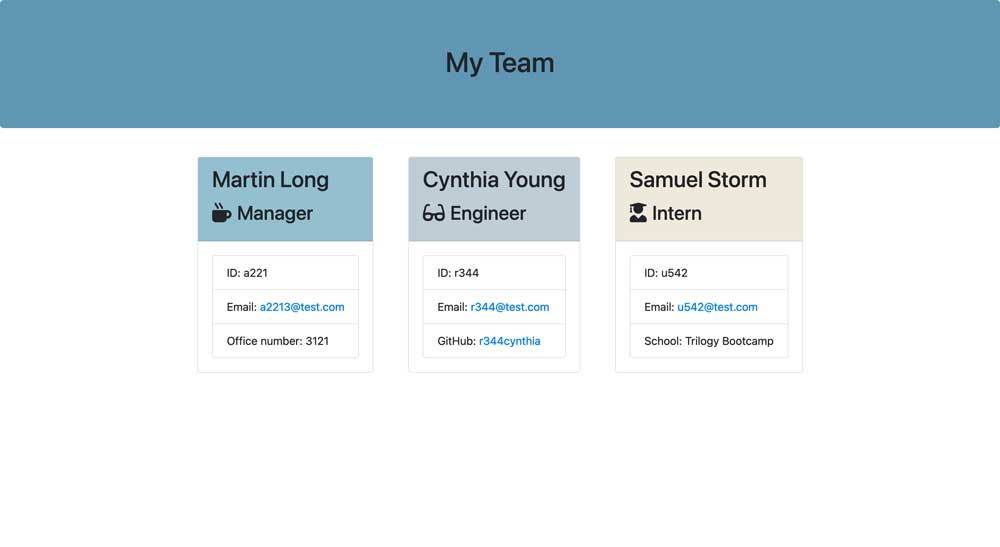
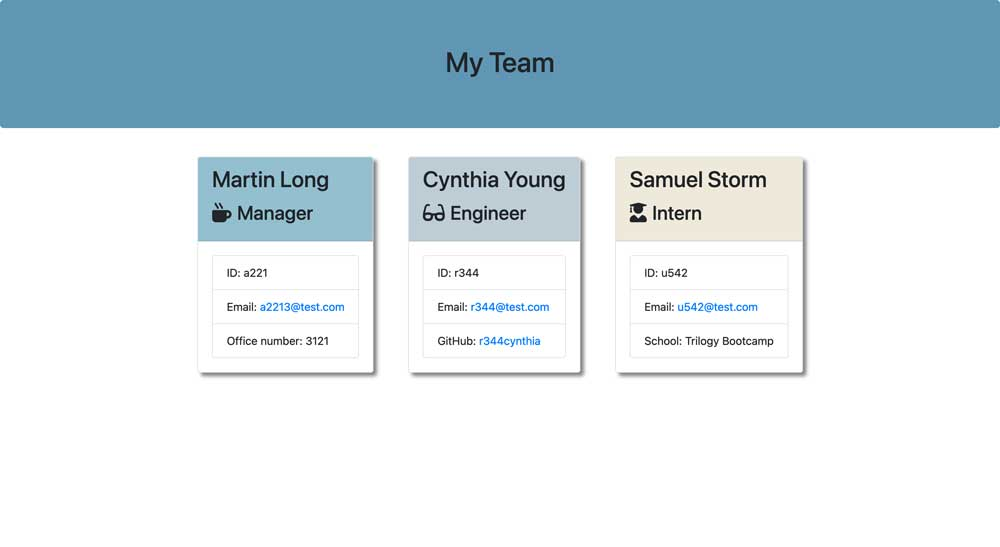
added box shadow

Changed region(s): [[0.186, 0.2797, 0.403, 0.7148], [0.403, 0.2797, 0.589, 0.7148], [0.62, 0.6527, 0.806, 0.7148]]

diff --git a/output/team.html b/output/team.html
@@ -1,103 +1,94 @@
-
-    <!DOCTYPE html>
+<!DOCTYPE html>
 <html lang="en">
-
-<head>
+  <head>
     <meta charset="UTF-8" />
     <meta name="viewport" content="width=device-width, initial-scale=1.0" />
     <meta http-equiv="X-UA-Compatible" content="ie=edge" />
     <title>My Team</title>
-    <link rel="stylesheet" href="https://stackpath.bootstrapcdn.com/bootstrap/4.3.1/css/bootstrap.min.css"
-        integrity="sha384-ggOyR0iXCbMQv3Xipma34MD+dH/1fQ784/j6cY/iJTQUOhcWr7x9JvoRxT2MZw1T" crossorigin="anonymous">
-    <link rel="stylesheet" href="style.css">
+    <link
+      rel="stylesheet"
+      href="https://stackpath.bootstrapcdn.com/bootstrap/4.3.1/css/bootstrap.min.css"
+      integrity="sha384-ggOyR0iXCbMQv3Xipma34MD+dH/1fQ784/j6cY/iJTQUOhcWr7x9JvoRxT2MZw1T"
+      crossorigin="anonymous"
+    />
+    <link rel="stylesheet" href="style.css" />
     <script src="https://kit.fontawesome.com/c502137733.js"></script>
-</head>
+  </head>
 
-<body>
+  <body>
     <div class="container-fluid">
-        <div class="row">
-            <div class="col-12 jumbotron mb-3 team-heading">
-                <h1 class="text-center">My Team</h1>
-            </div>
+      <div class="row">
+        <div class="col-12 jumbotron mb-3 team-heading">
+          <h1 class="text-center">My Team</h1>
         </div>
+      </div>
     </div>
     <div class="container">
-        <div class="row">
-            <div class="team-area col-12 d-flex justify-content-center">
-                
-        <div class="card employee-card">
-        <div class="manager card-header">
-            <h2 class="card-title">Martin Long</h2>
-            <h3 class="card-title"><i class="fas fa-mug-hot mr-2"></i>Manager</h3>
-        </div>
-        <div class="card-body">
-            <ul class="list-group">
-                <li class="list-group-item">ID: a221</li>
-                <li class="list-group-item">Email: <a href="mailto:a2213@test.com">a2213@test.com</a></li>
-                <li class="list-group-item">Office number: 3121</li>
-            </ul>
-        </div>
-    </div>
-        
-        <div class="card  employee-card">
-    <div class="engineer card-header">
-        <h2 class="card-title">Cynthia Young</h2>
-        <h3 class="card-title"><i class="fas fa-glasses mr-2"></i>Engineer</h3>
-    </div>
-    <div class="card-body">
-        <ul class="list-group">
-            <li class="list-group-item">ID: r344</li>
-            <li class="list-group-item">Email: <a href="mailto:r344@test.com">r344@test.com</a></li>
-            <li class="list-group-item">GitHub: <a href="https://github.com/r344cynthia" target="_blank" rel="noopener noreferrer">r344cynthia</a></li>
-        </ul>
-    </div>
-</div>
-        
-        <div class="card  employee-card">
-    <div class="engineer card-header">
-        <h2 class="card-title">Marley James</h2>
-        <h3 class="card-title"><i class="fas fa-glasses mr-2"></i>Engineer</h3>
-    </div>
-    <div class="card-body">
-        <ul class="list-group">
-            <li class="list-group-item">ID: a673</li>
-            <li class="list-group-item">Email: <a href="mailto:a673@test.com">a673@test.com</a></li>
-            <li class="list-group-item">GitHub: <a href="https://github.com/marleyj" target="_blank" rel="noopener noreferrer">marleyj</a></li>
-        </ul>
-    </div>
-</div>
-        
-        <div class="card employee-card">
-    <div class="intern card-header">
-        <h2 class="card-title">Samuel Storm</h2>
-        <h3 class="card-title"><i class="fas fa-user-graduate mr-2"></i>Intern</h3>
-    </div>
-    <div class="card-body">
-        <ul class="list-group">
-            <li class="list-group-item">ID: u542</li>
-            <li class="list-group-item">Email: <a href="mailto:u542@test.com">u542@test.com</a></li>
-            <li class="list-group-item">School: Trilogy Bootcamp</li>
-        </ul>
-    </div>
-</div>
-        
-        <div class="card employee-card">
-    <div class="intern card-header">
-        <h2 class="card-title">Jeremy Batch</h2>
-        <h3 class="card-title"><i class="fas fa-user-graduate mr-2"></i>Intern</h3>
-    </div>
-    <div class="card-body">
-        <ul class="list-group">
-            <li class="list-group-item">ID: u399</li>
-            <li class="list-group-item">Email: <a href="mailto:u399@test.com">u399@test.com</a></li>
-            <li class="list-group-item">School: Graduate School</li>
-        </ul>
-    </div>
-</div>
-        
+      <div class="row">
+        <div class="team-area col-12 d-flex justify-content-center">
+          <div class="card employee-card">
+            <div class="manager card-header">
+              <h2 class="card-title">Martin Long</h2>
+              <h3 class="card-title">
+                <i class="fas fa-mug-hot mr-2"></i>Manager
+              </h3>
             </div>
+            <div class="card-body">
+              <ul class="list-group">
+                <li class="list-group-item">ID: a221</li>
+                <li class="list-group-item">
+                  Email: <a href="mailto:a2213@test.com">a2213@test.com</a>
+                </li>
+                <li class="list-group-item">Office number: 3121</li>
+              </ul>
+            </div>
+          </div>
+
+          <div class="card employee-card">
+            <div class="engineer card-header">
+              <h2 class="card-title">Cynthia Young</h2>
+              <h3 class="card-title">
+                <i class="fas fa-glasses mr-2"></i>Engineer
+              </h3>
+            </div>
+            <div class="card-body">
+              <ul class="list-group">
+                <li class="list-group-item">ID: r344</li>
+                <li class="list-group-item">
+                  Email: <a href="mailto:r344@test.com">r344@test.com</a>
+                </li>
+                <li class="list-group-item">
+                  GitHub:
+                  <a
+                    href="https://github.com/r344cynthia"
+                    target="_blank"
+                    rel="noopener noreferrer"
+                    >r344cynthia</a
+                  >
+                </li>
+              </ul>
+            </div>
+          </div>
+
+          <div class="card employee-card">
+            <div class="intern card-header">
+              <h2 class="card-title">Samuel Storm</h2>
+              <h3 class="card-title">
+                <i class="fas fa-user-graduate mr-2"></i>Intern
+              </h3>
+            </div>
+            <div class="card-body">
+              <ul class="list-group">
+                <li class="list-group-item">ID: u542</li>
+                <li class="list-group-item">
+                  Email: <a href="mailto:u542@test.com">u542@test.com</a>
+                </li>
+                <li class="list-group-item">School: Trilogy Bootcamp</li>
+              </ul>
+            </div>
+          </div>
         </div>
+      </div>
     </div>
-</body>
+  </body>
 </html>
-    

diff --git a/output/style.css b/output/style.css
@@ -10,6 +10,9 @@
 
 .card {
   margin: 25px;
+  -webkit-box-shadow: 5px 5px 5px 0px rgba(133, 130, 133, 1);
+  -moz-box-shadow: 5px 5px 5px 0px rgba(133, 130, 133, 1);
+  box-shadow: 5px 5px 5px 0px rgba(133, 130, 133, 1);
 }
 
 .manager.card-header {
